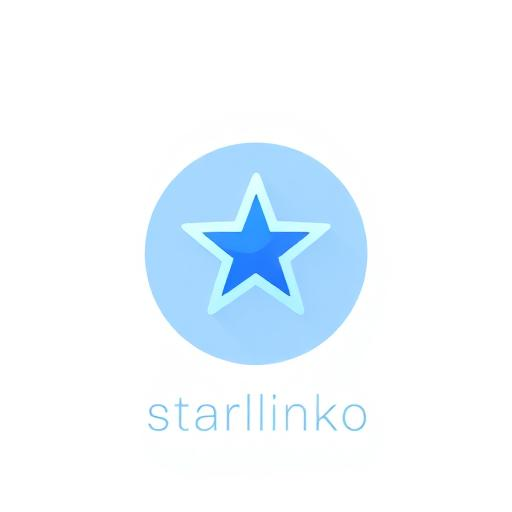
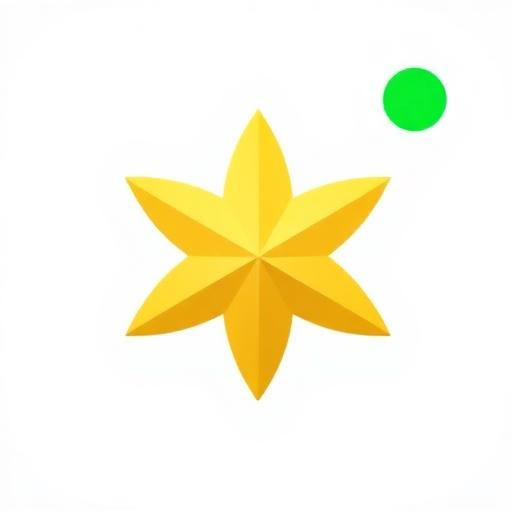
Changes

Changed region(s): [[0.2188, 0.1875, 0.7812, 0.8438], [0.7188, 0.125, 0.875, 0.2812]]

diff --git a/src/components/SplashScreen.tsx b/src/components/SplashScreen.tsx
@@ -1,5 +1,5 @@
 import { useEffect, useState } from "react";
-import { Sparkles } from "lucide-react";
+import { Star } from "lucide-react";
 
 interface SplashScreenProps {
   onComplete: () => void;
@@ -19,27 +19,30 @@ export const SplashScreen = ({ onComplete }: SplashScreenProps) => {
 
   return (
     <div 
-      className={`fixed inset-0 z-50 flex flex-col items-center justify-center gradient-hero transition-opacity duration-500 ${
+      className={`fixed inset-0 z-50 flex flex-col items-center justify-center bg-white transition-opacity duration-500 ${
         fadeOut ? "opacity-0" : "opacity-100"
       }`}
     >
       <div className="flex flex-col items-center gap-6 animate-fade-in">
-        {/* Logo */}
-        <div className="w-24 h-24 rounded-3xl bg-card/10 backdrop-blur-sm border border-card/20 flex items-center justify-center">
-          <Sparkles className="w-12 h-12 text-card" />
+        {/* Logo - Star jaune avec point vert */}
+        <div className="relative">
+          <div className="w-28 h-28 rounded-3xl bg-gradient-to-br from-accent/10 to-secondary/10 flex items-center justify-center shadow-lg border border-accent/20">
+            <Star className="w-16 h-16 text-accent fill-accent drop-shadow-md" />
+          </div>
+          <div className="absolute -top-1 -right-1 w-5 h-5 bg-secondary rounded-full animate-pulse shadow-md border-2 border-white" />
         </div>
         
         {/* Brand */}
         <div className="text-center">
-          <h1 className="text-4xl font-bold text-card tracking-tight">Starlinko</h1>
-          <p className="text-card/70 text-sm mt-2">Dominez votre marché local</p>
+          <h1 className="text-4xl font-bold text-foreground tracking-tight">Starlinko</h1>
+          <p className="text-muted-foreground text-sm mt-2">Dominez votre marché local</p>
         </div>
         
-        {/* Loading indicator */}
-        <div className="mt-8 flex gap-1">
-          <div className="w-2 h-2 rounded-full bg-card/50 animate-bounce" style={{ animationDelay: "0ms" }} />
-          <div className="w-2 h-2 rounded-full bg-card/50 animate-bounce" style={{ animationDelay: "150ms" }} />
-          <div className="w-2 h-2 rounded-full bg-card/50 animate-bounce" style={{ animationDelay: "300ms" }} />
+        {/* Loading indicator - couleurs du logo */}
+        <div className="mt-8 flex gap-2">
+          <div className="w-2.5 h-2.5 rounded-full bg-accent animate-bounce" style={{ animationDelay: "0ms" }} />
+          <div className="w-2.5 h-2.5 rounded-full bg-secondary animate-bounce" style={{ animationDelay: "150ms" }} />
+          <div className="w-2.5 h-2.5 rounded-full bg-accent animate-bounce" style={{ animationDelay: "300ms" }} />
         </div>
       </div>
     </div>

diff --git a/index.html b/index.html
@@ -9,20 +9,20 @@
     <meta name="keywords" content="Google My Business, avis Google, gestion avis, API Google, automatisation, réponses automatiques" />
 
     <!-- PWA Meta Tags -->
-    <meta name="theme-color" content="#0f172a" />
+    <meta name="theme-color" content="#ffffff" />
     <meta name="apple-mobile-web-app-capable" content="yes" />
-    <meta name="apple-mobile-web-app-status-bar-style" content="black-translucent" />
+    <meta name="apple-mobile-web-app-status-bar-style" content="default" />
     <meta name="apple-mobile-web-app-title" content="Starlinko" />
     <meta name="mobile-web-app-capable" content="yes" />
     <meta name="format-detection" content="telephone=no" />
-    <meta name="msapplication-TileColor" content="#0f172a" />
+    <meta name="msapplication-TileColor" content="#F5B800" />
     <meta name="msapplication-tap-highlight" content="no" />
 
     <!-- Apple Touch Icons -->
-    <link rel="apple-touch-icon" href="/icon-512x512.png" />
-    <link rel="apple-touch-icon" sizes="152x152" href="/icon-512x512.png" />
+    <link rel="apple-touch-icon" href="/pwa-192x192.png" />
+    <link rel="apple-touch-icon" sizes="152x152" href="/pwa-192x192.png" />
     <link rel="apple-touch-icon" sizes="180x180" href="/icon-512x512.png" />
-    <link rel="apple-touch-icon" sizes="167x167" href="/icon-512x512.png" />
+    <link rel="apple-touch-icon" sizes="167x167" href="/pwa-192x192.png" />
 
     <!-- Splash Screens for iOS -->
     <link rel="apple-touch-startup-image" href="/splash.png" />

diff --git a/vite.config.ts b/vite.config.ts
@@ -15,27 +15,27 @@ export default defineConfig(({ mode }) => ({
     mode === "development" && componentTagger(),
     VitePWA({
       registerType: "autoUpdate",
-      includeAssets: ["favicon.ico", "robots.txt", "icon-512x512.png", "splash.png"],
+      includeAssets: ["favicon.ico", "robots.txt", "icon-512x512.png", "splash.png", "pwa-192x192.png"],
       manifest: {
         name: "Starlinko - Gestion des avis Google",
         short_name: "Starlinko",
         description: "Gérez et répondez automatiquement à vos avis Google My Business",
-        theme_color: "#0f172a",
-        background_color: "#0f172a",
+        theme_color: "#ffffff",
+        background_color: "#ffffff",
         display: "standalone",
         orientation: "portrait",
         scope: "/",
         start_url: "/",
         icons: [
           {
-            src: "/icon-512x512.png",
-            sizes: "512x512",
+            src: "/pwa-192x192.png",
+            sizes: "192x192",
             type: "image/png",
-            purpose: "any maskable"
+            purpose: "any"
           },
           {
             src: "/icon-512x512.png",
-            sizes: "192x192",
+            sizes: "512x512",
             type: "image/png",
             purpose: "any maskable"
           }

diff --git a/src/index.css b/src/index.css
@@ -109,7 +109,7 @@
 
 @layer utilities {
   .gradient-hero {
-    background: linear-gradient(135deg, hsl(var(--google-blue)) 0%, hsl(var(--google-green)) 100%);
+    background: linear-gradient(135deg, hsl(43 96% 56%) 0%, hsl(160 84% 39%) 100%);
   }
   
   .gradient-text {
